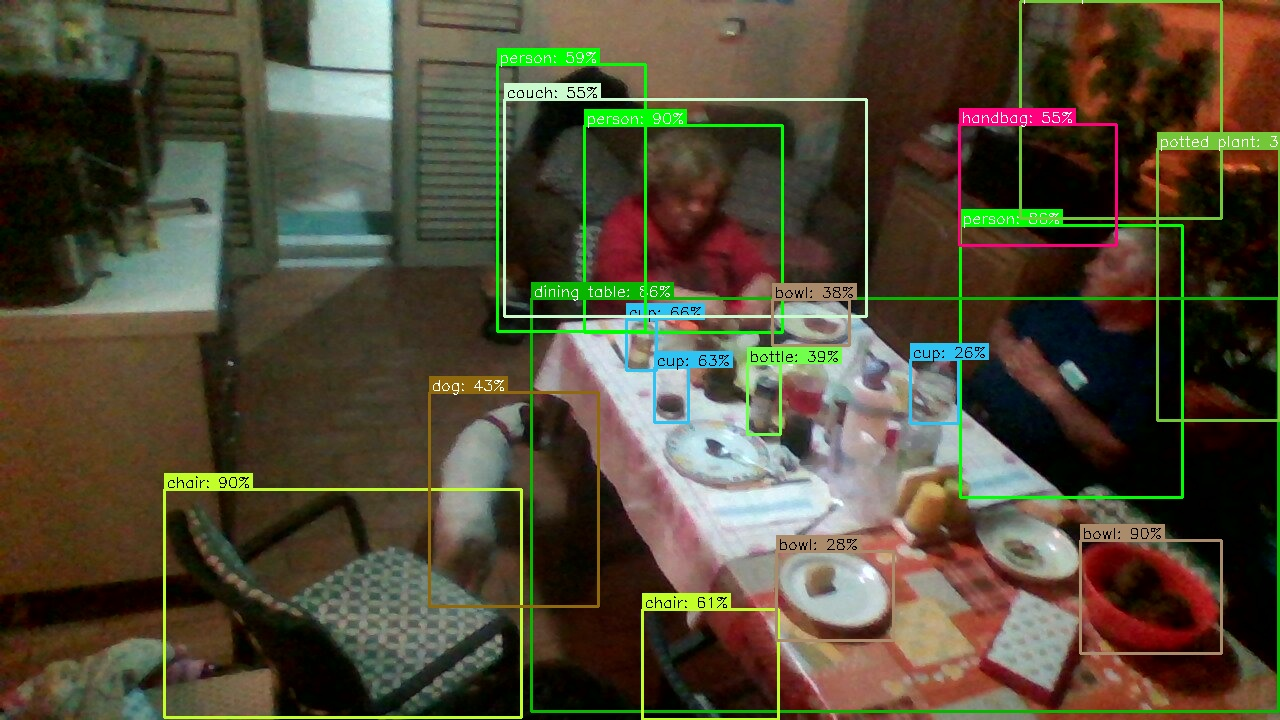
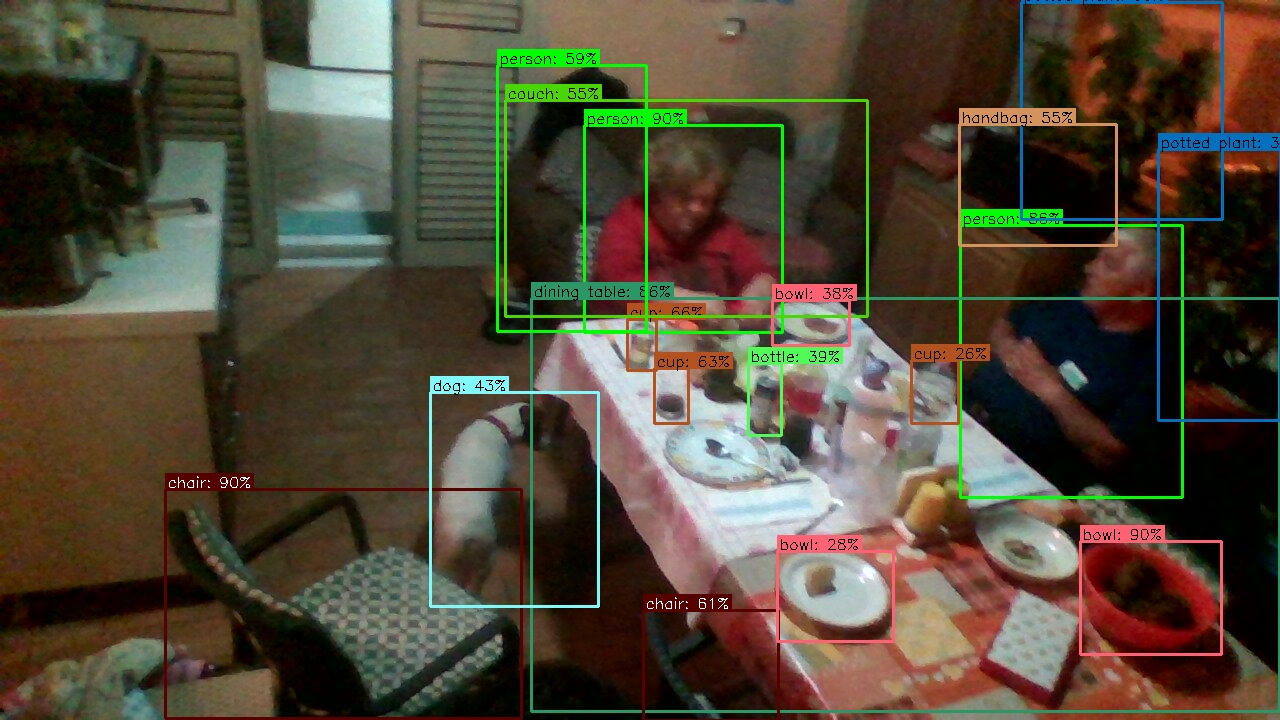
update step 1

diff --git a/utilities.py b/utilities.py
@@ -1,9 +1,12 @@
 
 import os
+import typing
 import cv2
 from distinctipy import distinctipy
 import numpy as np
 from ultralytics import YOLO
+import calapy as cp
+import torch
 
 
 def download(name, dir_file=None):
@@ -43,7 +46,7 @@ class BoxDrawer:
         self.black = (0, 0, 0)
 
         if threshold is None:
-            self.threshold = 255 * 0.5
+            self.threshold = 255 * 0.3
         else:
             self.threshold = threshold
 
@@ -59,36 +62,164 @@ class BoxDrawer:
 
             self.text_colors[k] = color_text_k
 
-    def __call__(self, boxes, input_image, dir_out_image=None):
+    def draw_multi_boxes_in_single_image(self, input_image, xyxy, **kwargs):
+
+        """
+
+        :param input_image:
+        :type input_image: str | np.ndarray | torch.Tensor
+
+        :param xyxy:
+        :type xyxy: list | tuple | np.ndarray | torch.Tensor
+
+        :key classes:
+        :key confidences:
+        :key ids:
+        :key dir_out_image:
+
+        :return:
+        :rtype: np.ndarray | torch.Tensor
+        """
 
         if isinstance(input_image, str):
             image = cv2.imread(input_image)
         else:
             image = input_image
 
-        for b, box_b in enumerate(iterable=boxes, start=0):
+        n_boxes = xyxy.shape[0]
 
-            class_b = box_b.cls[0].int().tolist()
+        xyxy_int = cp.maths.rint(xyxy)
+        if isinstance(xyxy_int, (np.ndarray, torch.Tensor)):
+            xyxy_int = xyxy_int.tolist()
 
-            x1, y1, x2, y2 = box_b.xyxy[0].int().tolist()
-            cv2.rectangle(image, (x1, y1), (x2, y2), self.colors[class_b], 2)
+        if kwargs.get('classes') is None:
+            classes_int = None  # type: None | list | tuple | np.ndarray | torch.Tensor
+        else:
+            classes_int = cp.maths.rint(kwargs['classes'])
+            if isinstance(classes_int, (np.ndarray, torch.Tensor)):
+                classes_int = classes_int.tolist()
 
-            name_b = self.names[class_b]
-            conf_b = box_b.conf[0].tolist()
-            label_b = f"{name_b}: {conf_b * 100:.0f}%"
+        if kwargs.get('confidences') is None:
+            confidences_int = None  # type: None | list | tuple | np.ndarray | torch.Tensor
+        else:
+            confidences_int = cp.maths.rint(kwargs['confidences'] * 100)
+            if isinstance(confidences_int, (np.ndarray, torch.Tensor)):
+                confidences_int = confidences_int.tolist()
 
-            # Get the size of the text
-            text_size_b = cv2.getTextSize(label_b, cv2.FONT_HERSHEY_SIMPLEX, 0.5, 1)[0]
-            # Draw a filled rectangle to put the text on
-            cv2.rectangle(image, (x1, y1 - text_size_b[1] - 4), (x1 + text_size_b[0] + 4, y1), self.colors[class_b], -1)
+        if kwargs.get('ids') is None:
+            ids_int = None  # type: None | list | tuple | np.ndarray | torch.Tensor
+        else:
+            ids_int = cp.maths.rint(kwargs['ids'])
+            if isinstance(ids_int, (np.ndarray, torch.Tensor)):
+                ids_int = ids_int.tolist()
 
-            # Put the text on the image
-            cv2.putText(image, label_b, (x1 + 2, y1 - 2), cv2.FONT_HERSHEY_SIMPLEX, 0.5, self.text_colors[class_b], 1)
+        for b in range(0, n_boxes, 1):
 
-        if dir_out_image is not None:
-            cv2.imwrite(filename=dir_out_image, img=image)
+            if classes_int is None:
+                class_b = None
+                name_b = None
+                color_b = self.colors[0]
+                text_colors_b = self.text_colors[0]
+            else:
+                class_b = classes_int[b]
+                name_b = self.names[class_b]
+                color_b = self.colors[class_b]
+                text_colors_b = self.text_colors[class_b]
+
+            if confidences_int is None:
+                confidence_b = None
+            else:
+                confidence_b = confidences_int[b]
+
+            if ids_int is None:
+                id_b = None
+            else:
+                id_b = ids_int[b]
+
+            if (name_b is None) and (confidence_b is None) and (id_b is None):
+                label_b = None
+
+            elif (name_b is None) and (confidence_b is None) and (id_b is not None):
+                label_b = 'ID: {ID:d}'.format(ID=id_b)
+
+            elif (name_b is None) and (confidence_b is not None) and (id_b is None):
+                label_b = '{confidence:d}%'.format(confidence=confidence_b)
+
+            elif (name_b is None) and (confidence_b is not None) and (id_b is not None):
+                label_b = '{confidence:d}% - ID: {ID:d}'.format(confidence=confidence_b, ID=id_b)
+
+            elif (name_b is not None) and (confidence_b is None) and (id_b is None):
+                label_b = name_b
+
+            elif (name_b is not None) and (confidence_b is None) and (id_b is not None):
+                label_b = '{name:s} - ID: {ID:d}'.format(name=name_b, ID=id_b)
+
+            elif (name_b is not None) and (confidence_b is not None) and (id_b is None):
+                label_b = '{name:s}: {confidence:d}%'.format(name=name_b, confidence=confidence_b)
+            else:
+                label_b = '{name:s}: {confidence:d}% - ID: {ID:d}'.format(name=name_b, confidence=confidence_b, ID=id_b)
+
+            x1, y1, x2, y2 = xyxy_int[b]
+            cv2.rectangle(image, (x1, y1), (x2, y2), color_b, 2)
+
+            if label_b is not None:
+                # Get the size of the text
+                text_size_b = cv2.getTextSize(label_b, cv2.FONT_HERSHEY_SIMPLEX, 0.5, 1)[0]
+
+                # Draw a filled rectangle to put the text on
+                cv2.rectangle(image, (x1, y1 - text_size_b[1] - 4), (x1 + text_size_b[0] + 4, y1), color_b, -1)
+
+                # Put the text on the image
+                cv2.putText(image, label_b, (x1 + 2, y1 - 2), cv2.FONT_HERSHEY_SIMPLEX, 0.5, text_colors_b, 1)
+
+        if kwargs.get('dir_out_image') is not None:
+            cv2.imwrite(filename=kwargs['dir_out_image'], img=image)
 
         return image
+
+    def draw_multi_boxes_in_multi_images(self, input_images, xyxy, n_workers=None, **kwargs):
+
+        """
+
+        :param input_images:
+        :type input_images: list | tuple | np.ndarray
+
+        :param xyxy:
+        :type xyxy: list | tuple | np.ndarray
+
+        :arg n_workers:
+        :type n_workers: int | None
+
+        :key classes:
+        :key confidences:
+        :key ids:
+        :key dir_out_images:
+
+        :return:
+        :rtype: list | tuple | np.ndarray
+        """
+
+        I = len(input_images)
+
+        if 'dir_out_images' in kwargs.keys():
+            kwargs['dir_out_image'] = kwargs.pop('dir_out_images')
+
+        kwargs_next = [{
+            'input_image': input_images[i], 'xyxy': xyxy[i], **{key_k: kwargs[key_k][i] for key_k in kwargs.keys()}}
+            for i in range(0, I, 1)]
+
+        out_images = cp.threading.MultiThreads(
+            func=self.draw_multi_boxes_in_single_image,
+            args=None, kwargs=kwargs_next, n_workers=n_workers, names=None).run()
+
+        if isinstance(input_images, list):
+            return out_images
+        elif isinstance(input_images, tuple):
+            return tuple(out_images)
+        elif isinstance(input_images, np.ndarray):
+            return np.asarray(out_images)
+
+    __call__ = draw_multi_boxes_in_multi_images
 
 
 def load_yolo(**kwargs):

diff --git a/step_1_yolo_object_detection_on_images.py b/step_1_yolo_object_detection_on_images.py
@@ -1,7 +1,6 @@
 
 import os
 import utilities
-import calapy as cp
 
 
 root_script = __file__
@@ -29,17 +28,17 @@ yolo_v = utilities.load_yolo(name=name_yolo_version_v, dir_file=dir_yolo_version
 
 results_v = yolo_v(source=dir_input_images, verbose=False)
 
-boxes = [results_v[i].boxes for i in range(0, I, 1)]
+xyxy = [results_v[i].boxes.xyxy for i in range(0, I, 1)]
+classes = [results_v[i].boxes.cls for i in range(0, I, 1)]
+confidences = [results_v[i].boxes.conf for i in range(0, I, 1)]
 
-box_drawer = utilities.BoxDrawer(names=yolo_v.model.names, colors=None, threshold=(255 * .5))
+
+box_drawer = utilities.BoxDrawer(names=yolo_v.model.names, colors=None, threshold=(255 * .3))
 
 root_out_images = os.path.join(root_images, 'output_images', name_yolo_version_v.removesuffix('.pt'))
 os.makedirs(name=root_out_images, exist_ok=True)
 dir_out_images = [os.path.join(root_out_images, name_i) for name_i in name_input_images]
 
-kwargs = [
-    {'boxes': boxes[i], 'input_image': dir_input_images[i], 'dir_out_image': dir_out_images[i]}
-    for i in range(0, I, 1)]
-
-multi_threads = cp.threading.MultiThreads(func=box_drawer, args=None, kwargs=kwargs, n_workers=None, names=None)
-out_images = multi_threads.run()
+out_images = box_drawer(
+    input_images=dir_input_images, xyxy=xyxy, dir_out_images=dir_out_images, n_workers=None,
+    classes=classes, confidences=confidences)
